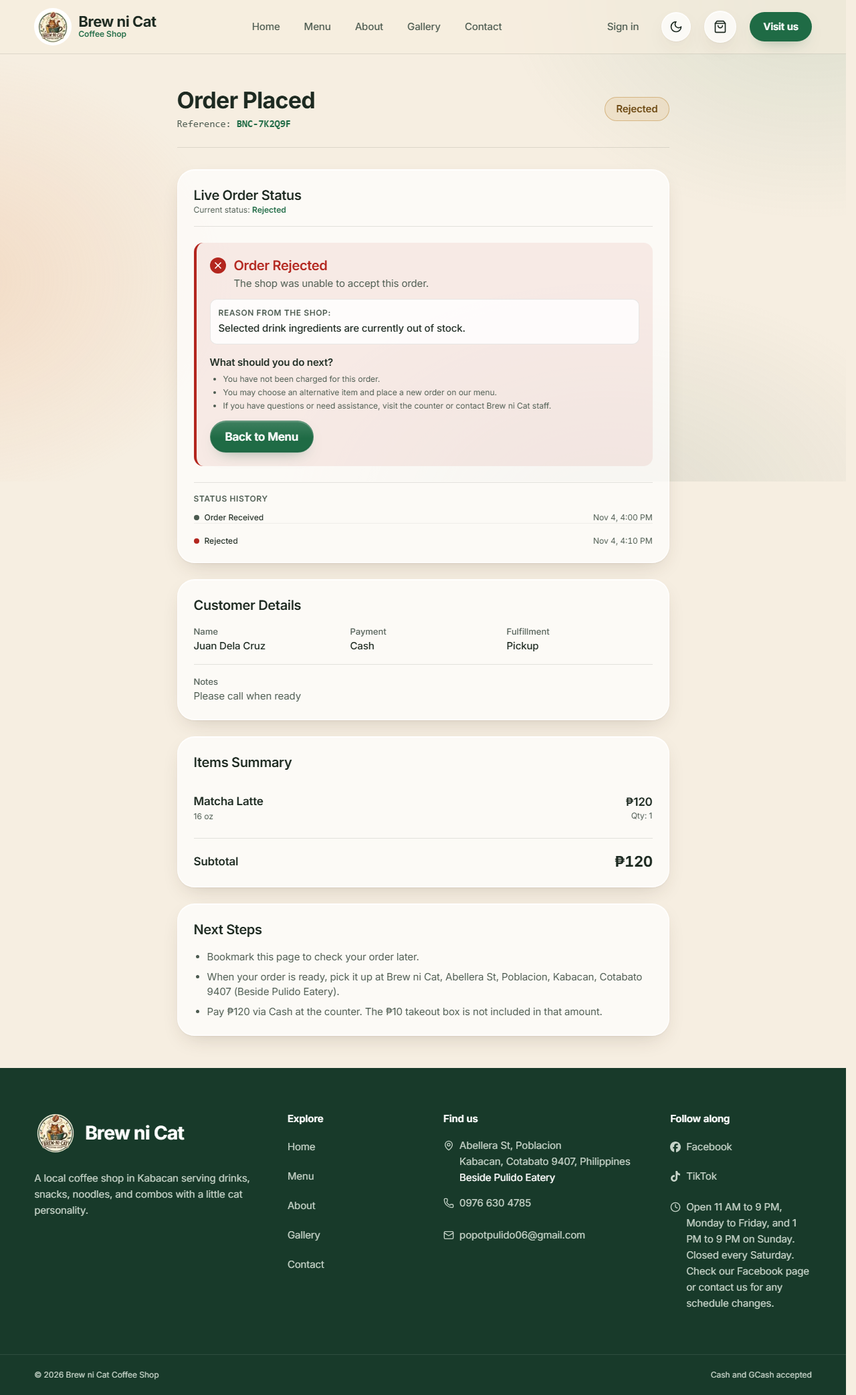
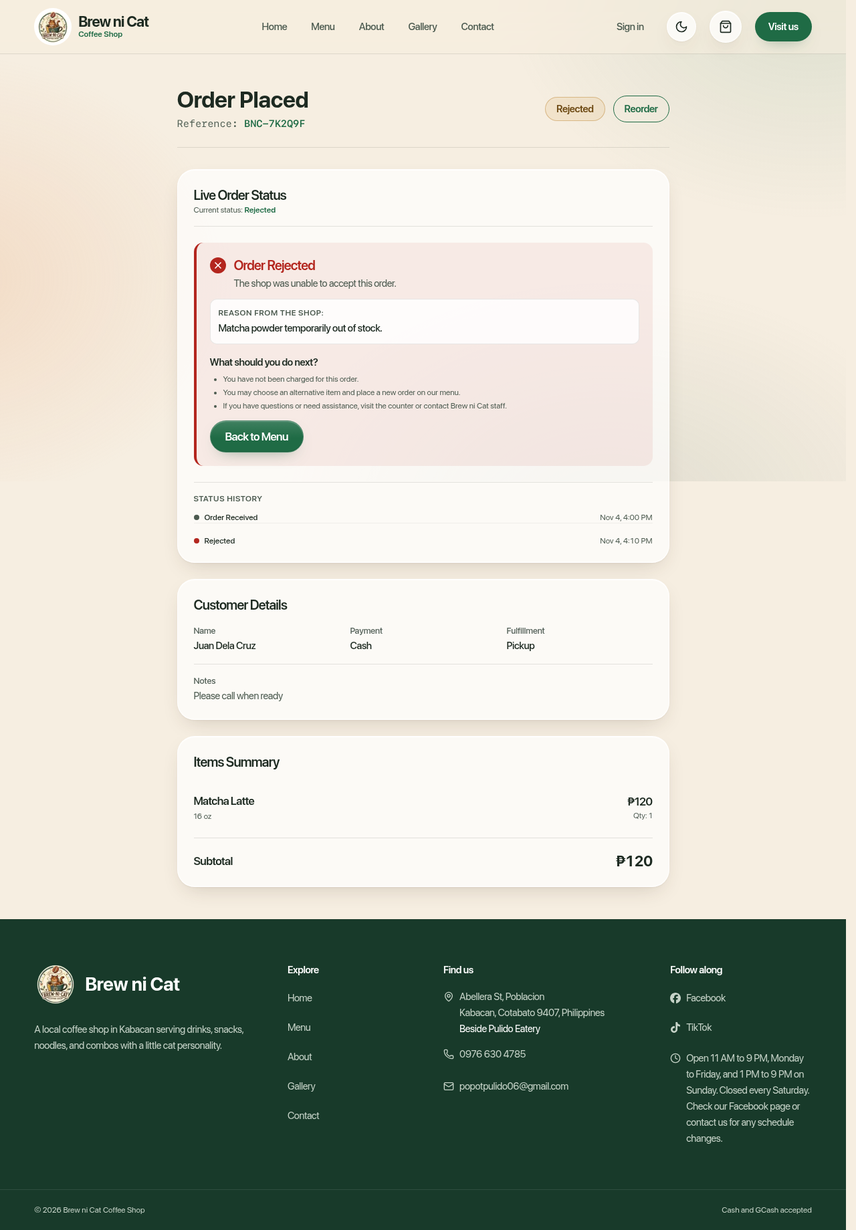
docs: restore tracking diagram, number review cases, retake evidence (FR-044 to FR-049)
- Restore the original section 6 diagram in execution-paths.md and move the detailed diagram under the 2026-11-04 update.
- Keep PR #94's cases as section 31 and make live order tracking section 32.
- Add TC-P5-063 and TC-P5-064, and rename the unit test that was titled TC-P4-263 to TC-P5-064.
- Save the five tracking screenshots with CAPTURE_EVIDENCE=1 and retake them from a fresh build.
- Update the FR status note range and add the 2026-11-06 development log entry.

diff --git a/tests/e2e/order-tracking.spec.ts b/tests/e2e/order-tracking.spec.ts
@@ -1,4 +1,4 @@
-import { expect, test } from "@playwright/test";
+import { expect, test, type Page } from "@playwright/test";
 
 const REFERENCE = "BNC-7K2Q9F";
 const TOKEN = "Zm9yLXRlc3RzLW9ubHktbm90LWEtcmVhbC10b2tlbg8";
@@ -37,6 +37,15 @@ function makeOrder(status: string, rejectionReason: string | null = null) {
   };
 }
 
+// With CAPTURE_EVIDENCE=1, saves the page as review evidence.
+async function captureEvidence(page: Page, state: string) {
+  if (process.env.CAPTURE_EVIDENCE !== "1") return;
+  await page.screenshot({
+    path: `docs/evidence/phase-5/order-tracking/order-tracking-${state}.png`,
+    fullPage: true,
+  });
+}
+
 test.describe("Live Order Tracking E2E", () => {
   test("TC-P5-061 — verifies live order progresses across statuses without full reload (FR-046, FR-047, FR-048)", async ({
     page,
@@ -62,6 +71,7 @@ test.describe("Live Order Tracking E2E", () => {
     // Verify initial "pending" status
     const pendingStage = page.getByTestId("tracker-stage-pending");
     await expect(pendingStage).toHaveAttribute("aria-current", "step");
+    await captureEvidence(page, "pending");
 
     // 2. Progress order to "preparing"
     currentStatus = "preparing";
@@ -82,6 +92,7 @@ test.describe("Live Order Tracking E2E", () => {
     // Stage 1 (pending) should now show completed icon
     const pendingIcon = page.getByTestId("stage-icon-pending");
     await expect(pendingIcon.locator("svg")).toBeVisible();
+    await captureEvidence(page, "preparing");
 
     // 3. Progress order to "ready"
     currentStatus = "ready";
@@ -93,6 +104,7 @@ test.describe("Live Order Tracking E2E", () => {
     await expect(readyStage).toHaveAttribute("aria-current", "step", {
       timeout: 10_000,
     });
+    await captureEvidence(page, "ready");
 
     // 4. Progress order to "completed"
     currentStatus = "completed";
@@ -108,6 +120,7 @@ test.describe("Live Order Tracking E2E", () => {
     // Status history list should contain the completed transition
     const historyList = page.getByTestId("status-history-list");
     await expect(historyList).toContainText("Completed");
+    await captureEvidence(page, "completed");
   });
 
   test("TC-P5-062 — displays customer-safe rejected order banner with reason and next steps (FR-049)", async ({
@@ -141,5 +154,6 @@ test.describe("Live Order Tracking E2E", () => {
     // Back to Menu link should navigate correctly
     const backToMenuLink = page.getByRole("link", { name: "Back to Menu" });
     await expect(backToMenuLink).toBeVisible();
+    await captureEvidence(page, "rejected");
   });
 });

diff --git a/tests/unit/order-confirmation-page.test.tsx b/tests/unit/order-confirmation-page.test.tsx
@@ -141,7 +141,7 @@ describe("Order confirmation page", () => {
     ).toBeInTheDocument();
   });
 
-  it("TC-P4-263 — shows the shop's status change without a reload, then stops listening (FR-046, FR-047)", async () => {
+  it("TC-P5-064 — shows the shop's status change without a reload, then stops listening (FR-046, FR-047)", async () => {
     fetchOrder
       .mockResolvedValueOnce(ORDER)
       .mockResolvedValueOnce({ ...ORDER, status: "ready" })

diff --git a/docs/test-cases.md b/docs/test-cases.md
@@ -718,7 +718,46 @@ These run against the production build with Supabase Auth seeded in localStorage
 | TC-P5-032 | FR-041 | `/account/orders` Reorder | Reorder shows both price updates and unavailable items | Mocked session and menu; order has one changed-price item and one item missing from the menu | Click Reorder | "Reorder notices" region shows "Added 2 items to your cart.", the ₱140 → ₱150 price update, and the unavailable Matcha Latte notice | Matched. | Passed | `tests/e2e/order-history.spec.ts`, `docs/evidence/phase-5/screenshots/order-history-reorder-notices.png` |
 | TC-P5-033 | FR-041 | `/orders/[reference]` | The order's owner sees the Reorder button on the order page | Mocked session; mocked `get_online_order` response | Open `/orders/BNC-7K2Q9F` | "Order Placed" heading, the order reference, and a visible Reorder button | Matched. | Passed | `tests/e2e/order-history.spec.ts`, `docs/evidence/phase-5/screenshots/order-page-reorder-button.png` |
 
-## 31. Live Order Tracking Cases (Phase 5, Week 2 — FR-044 to FR-049)
+## 31. Customer Profiles, Checkout Prefill, Linked Orders, and Account Page Guard Cases (FR-023, FR-033, FR-036, FR-038)
+
+Run on 2026-11-05. `npx vitest run tests/unit/checkout-validation.test.ts tests/unit/account-profile.test.tsx tests/unit/checkout-prefill.test.tsx tests/unit/orders-route.test.ts tests/unit/order-client.test.ts tests/unit/account-guard.test.tsx tests/unit/auth-context.test.tsx` — 40 passed (40). Full unit suite (`npx vitest run tests/unit`): 53 test files, 355 tests, all passed. Full test suite (`npx vitest run`): 64 test files, 508 passed. `npx playwright test tests/e2e/account-guard.spec.ts` — 3 passed (3). Full Playwright chromium suite (`CI=1 npx playwright test --project=chromium`): 29 passed, 3 skipped. `npm run typecheck`, `npm run lint`, `npm run format:check` all passed. `npm run build` succeeded with `/account/profile` and `/api/orders` in the route manifest. Visual evidence captured for profile viewing/editing and checkout prefill.
+
+### 31a. Customer profile validation and service (TC-P4-263 to TC-P4-265)
+
+| ID | Requirement ID(s) | Module | Scenario | Preconditions | Input / action | Expected result | Actual result | Status | Evidence |
+|---|---|---|---|---|---|---|---|---|---|
+| TC-P4-263 | FR-038 | `validateCustomerProfile` | Profile name and phone validation rules | None | Validate empty/whitespace names, names > 100 characters, invalid phones, and valid data | Name is required and rejected when exceeding 100 characters; phone is required and rejected if not valid Philippine format; valid input returns clean profile payload | Matched. | Passed | `tests/unit/account-profile.test.tsx` |
+| TC-P4-264 | FR-038 | `normalizePhoneNumber` / `saveCustomerProfile` | Phone normalization to `+639XXXXXXXXX` format | Valid Philippine mobile input in local `09XXXXXXXXX`, spaced, or dashed formats | Call `normalizePhoneNumber` and `saveCustomerProfile` | Converts local numbers to `+639XXXXXXXXX`, trims punctuation/spaces, and upserts into `public.customer_profiles` table | Matched. | Passed | `tests/unit/checkout-validation.test.ts`, `tests/unit/account-profile.test.tsx` |
+| TC-P4-265 | FR-038 | `ProfileView` | Profile view loading, display, and update saving | Signed-in customer with existing profile | Render `<ProfileView />`, modify name/phone, and submit | Skeleton rendered while loading; email displayed as read-only; form inputs prefill; successful submit invokes `saveCustomerProfile` and displays accessible success alert | Matched. | Passed | `tests/unit/account-profile.test.tsx` |
+
+### 31b. Checkout prefill and order linkage (TC-P4-266 to TC-P4-269)
+
+| ID | Requirement ID(s) | Module | Scenario | Preconditions | Input / action | Expected result | Actual result | Status | Evidence |
+|---|---|---|---|---|---|---|---|---|---|
+| TC-P4-266 | FR-023 | `CheckoutView` | Checkout prefill for signed-in customer with profile | Customer is signed in and has saved profile (`Juan Dela Cruz`, `09171234567`) | Open `/checkout` with active cart | Customer name and phone fields automatically prefill from the profile; session token attached to `placeOrder` call | Matched. | Passed | `tests/unit/checkout-prefill.test.tsx` |
+| TC-P4-267 | FR-023 | `CheckoutView` | Guest checkout isolation without prefill | Visitor is unauthenticated (`user: null`, guest state) | Open `/checkout` with active cart | Customer name and phone fields remain completely blank; Place order executes without authorization header | Matched. | Passed | `tests/unit/checkout-prefill.test.tsx` |
+| TC-P4-268 | FR-023 | `POST /api/orders` | Authenticated order placement links to customer account | Valid session token supplied in `Authorization: Bearer <token>` header | Submit valid checkout payload to `POST /api/orders` | Route verifies token via `supabase.auth.getUser(token)`, invokes `place_online_order` using token-authenticated client, associating order with `auth.uid()` | Matched. | Passed | `tests/unit/orders-route.test.ts` |
+| TC-P4-269 | FR-023 | `POST /api/orders` | Invalid or expired session token rejection | Malformed or expired bearer token passed in `Authorization` header | Submit checkout request to `POST /api/orders` | Route rejects request with HTTP 401 Unauthorized and `session-expired` error code (502 if auth unreachable), aborting order placement | Matched. | Passed | `tests/unit/orders-route.test.ts` |
+
+### 31c. Account page guard and navigation (TC-P4-270 to TC-P4-273)
+
+| ID | Requirement ID(s) | Module | Scenario | Preconditions | Input / action | Expected result | Actual result | Status | Evidence |
+|---|---|---|---|---|---|---|---|---|---|
+| TC-P4-270 | FR-033, FR-036 | `AccountGuard` | Route guarding for `/account/*` pages | Unauthenticated visitor navigating to protected vs public account routes | Mount `AccountGuard` on `/account/profile`, `/account/orders`, vs `/account/sign-in` | Protected pages redirect to `/account/sign-in?returnTo=<path>`; public auth routes allow navigation without redirection | Matched. | Passed | `tests/unit/account-guard.test.tsx` |
+| TC-P4-271 | FR-033, FR-036 | `AccountGuard` E2E | Unauthenticated visit redirects to sign-in and returns after login | Playwright browser with unauthenticated state | Navigate directly to `/account/profile`, complete sign-in | Browser redirects to `/account/sign-in?returnTo=%2Faccount%2Fprofile`; on successful sign-in, user is redirected back to `/account/profile` | Matched. | Passed | `tests/e2e/account-guard.spec.ts` |
+| TC-P4-272 | FR-038 | `/account/profile` | Customer profile screen visual evidence | Authenticated customer session | Capture screenshot of `/account/profile` | Renders iOS 27 styled profile card, read-only email, editable name and phone fields with save button | Matched. | Passed | `docs/evidence/phase-4/screenshots/profile.png` |
+| TC-P4-273 | FR-023 | `/checkout` | Checkout prefill visual evidence | Authenticated customer session with saved profile | Capture screenshot of `/checkout` with active cart | Renders checkout form with prefilled name and phone number | Matched. | Passed | `docs/evidence/phase-4/screenshots/checkout-prefill.png` |
+
+### 31d. Return-to validation, sign-out prefill clearing, and bearer order client (TC-P4-274 to TC-P4-277)
+
+| ID | Requirement ID(s) | Module | Scenario | Preconditions | Input / action | Expected result | Actual result | Status | Evidence |
+|---|---|---|---|---|---|---|---|---|---|
+| TC-P4-274 | FR-036 | `safeReturnTo` | Rejection of protocol-relative, backslash, and tab redirect bypasses | None | Call `safeReturnTo` with `//evil.example`, `/\evil.example`, `/\t/evil.example`, `https://evil.example`, `javascript:alert(1)`, `null`, and `""` | All malicious and invalid inputs are rejected and fall back safely to `"/"` | Matched. | Passed | `tests/unit/account-guard.test.tsx` |
+| TC-P4-275 | FR-036 | `safeReturnTo` | Allowance of safe local relative paths | None | Call `safeReturnTo` with `"/account/profile"` and `"/account/orders?page=2#heading"` | Valid local relative paths and query/hash parameters are preserved and returned unchanged | Matched. | Passed | `tests/unit/account-guard.test.tsx` |
+| TC-P4-276 | FR-033 | `CheckoutView` | Prefill cleanup upon customer sign-out | Customer with saved profile is signed in on `/checkout`, then signs out | Trigger Supabase auth sign-out event while checkout is mounted | Prefilled name and phone inputs are immediately cleared back to empty strings | Matched. | Passed | `tests/unit/checkout-prefill.test.tsx` |
+| TC-P4-277 | FR-023 | `placeOrder` client | Session token bearer header dispatch and session expiration handling | Active or expired customer session token | Invoke `placeOrder` with `{ sessionToken: "expired-jwt" }` against an HTTP 401 response | Attaches `Authorization: Bearer expired-jwt` to request and returns structured `session-expired` failure result | Matched. | Passed | `tests/unit/order-client.test.ts` |
+
+## 32. Live Order Tracking Cases (Phase 5, Week 2 — FR-044 to FR-049)
 
 Run on 2026-11-04 by Renier P. Apal. Covers unit tests for `useOrderStatus` hook (`tests/unit/use-order-status.test.ts`), `OrderStatusTracker` component (`tests/unit/order-status-tracker.test.tsx`), `fetchOrder` (`tests/unit/fetch-order.test.ts`), order confirmation page integration (`tests/unit/order-confirmation-page.test.tsx`), and Playwright E2E (`tests/e2e/order-tracking.spec.ts`).
 
@@ -746,42 +785,7 @@ Run on 2026-11-04 by Renier P. Apal. Covers unit tests for `useOrderStatus` hook
 | TC-P5-059 | FR-044 | Order Page Auth | Cross-account tracking attempt fails server-side | Customer signed in; order belongs to different user | Navigate to `/orders/BNC-7K2Q9F` without token | Server returns null; page shows Order Not Found without leaking order details | Matches expected. | Pass | 2026-11-04 |
 | TC-P5-061 | FR-046, FR-047, FR-048 | Live Order Tracking E2E | Order progresses across statuses without full page reload | Playwright browser against Next.js production build | Intercept RPC; progress order from pending -> preparing -> ready -> completed | Page updates stages seamlessly without full reload; shows completed history | Matches expected (Playwright chromium). | Pass | 2026-11-04 |
 | TC-P5-062 | FR-049 | Live Order Tracking E2E | Rejected order displays rejection reason and next steps | Order status is `rejected` | Navigate to order page | Rejected banner, reason, and Back to Menu link are visible and actionable | Matches expected (Playwright chromium). | Pass | 2026-11-04 |
+| TC-P5-063 | FR-049 | Order Page | Next Steps card is hidden once the order is final | Order page loads a pending order, then a rejected order | Render the order page for each order | Next Steps shows for the pending order and is hidden for the rejected order, so a rejected order no longer asks the customer to pay at the counter | Matches expected. | Pass | 2026-11-06 |
+| TC-P5-064 | FR-046, FR-047 | Order Page Realtime | The shop's status change shows without a reload, then the page stops listening | Guest order page open with a valid token; the order is pending | Fire the order's `status-changed` broadcast twice while the shop moves the order to ready, then completed | The page refetches the order with the token and shows ready, then completed, without a reload; the channel is removed once the order is completed | Matches expected. | Pass | 2026-11-06 |
 
-## 32. Customer Profiles, Checkout Prefill, Linked Orders, and Account Page Guard Cases (FR-023, FR-033, FR-036, FR-038)
-
-Run on 2026-11-05. `npx vitest run tests/unit/checkout-validation.test.ts tests/unit/account-profile.test.tsx tests/unit/checkout-prefill.test.tsx tests/unit/orders-route.test.ts tests/unit/order-client.test.ts tests/unit/account-guard.test.tsx tests/unit/auth-context.test.tsx` — 40 passed (40). Full unit suite (`npx vitest run tests/unit`): 53 test files, 355 tests, all passed. Full test suite (`npx vitest run`): 64 test files, 508 passed. `npx playwright test tests/e2e/account-guard.spec.ts` — 3 passed (3). Full Playwright chromium suite (`CI=1 npx playwright test --project=chromium`): 29 passed, 3 skipped. `npm run typecheck`, `npm run lint`, `npm run format:check` all passed. `npm run build` succeeded with `/account/profile` and `/api/orders` in the route manifest. Visual evidence captured for profile viewing/editing and checkout prefill.
-
-### 32a. Customer profile validation and service (TC-P4-263 to TC-P4-265)
-
-| ID | Requirement ID(s) | Module | Scenario | Preconditions | Input / action | Expected result | Actual result | Status | Evidence |
-|---|---|---|---|---|---|---|---|---|---|
-| TC-P4-263 | FR-038 | `validateCustomerProfile` | Profile name and phone validation rules | None | Validate empty/whitespace names, names > 100 characters, invalid phones, and valid data | Name is required and rejected when exceeding 100 characters; phone is required and rejected if not valid Philippine format; valid input returns clean profile payload | Matched. | Passed | `tests/unit/account-profile.test.tsx` |
-| TC-P4-264 | FR-038 | `normalizePhoneNumber` / `saveCustomerProfile` | Phone normalization to `+639XXXXXXXXX` format | Valid Philippine mobile input in local `09XXXXXXXXX`, spaced, or dashed formats | Call `normalizePhoneNumber` and `saveCustomerProfile` | Converts local numbers to `+639XXXXXXXXX`, trims punctuation/spaces, and upserts into `public.customer_profiles` table | Matched. | Passed | `tests/unit/checkout-validation.test.ts`, `tests/unit/account-profile.test.tsx` |
-| TC-P4-265 | FR-038 | `ProfileView` | Profile view loading, display, and update saving | Signed-in customer with existing profile | Render `<ProfileView />`, modify name/phone, and submit | Skeleton rendered while loading; email displayed as read-only; form inputs prefill; successful submit invokes `saveCustomerProfile` and displays accessible success alert | Matched. | Passed | `tests/unit/account-profile.test.tsx` |
-
-### 32b. Checkout prefill and order linkage (TC-P4-266 to TC-P4-269)
-
-| ID | Requirement ID(s) | Module | Scenario | Preconditions | Input / action | Expected result | Actual result | Status | Evidence |
-|---|---|---|---|---|---|---|---|---|---|
-| TC-P4-266 | FR-023 | `CheckoutView` | Checkout prefill for signed-in customer with profile | Customer is signed in and has saved profile (`Juan Dela Cruz`, `09171234567`) | Open `/checkout` with active cart | Customer name and phone fields automatically prefill from the profile; session token attached to `placeOrder` call | Matched. | Passed | `tests/unit/checkout-prefill.test.tsx` |
-| TC-P4-267 | FR-023 | `CheckoutView` | Guest checkout isolation without prefill | Visitor is unauthenticated (`user: null`, guest state) | Open `/checkout` with active cart | Customer name and phone fields remain completely blank; Place order executes without authorization header | Matched. | Passed | `tests/unit/checkout-prefill.test.tsx` |
-| TC-P4-268 | FR-023 | `POST /api/orders` | Authenticated order placement links to customer account | Valid session token supplied in `Authorization: Bearer <token>` header | Submit valid checkout payload to `POST /api/orders` | Route verifies token via `supabase.auth.getUser(token)`, invokes `place_online_order` using token-authenticated client, associating order with `auth.uid()` | Matched. | Passed | `tests/unit/orders-route.test.ts` |
-| TC-P4-269 | FR-023 | `POST /api/orders` | Invalid or expired session token rejection | Malformed or expired bearer token passed in `Authorization` header | Submit checkout request to `POST /api/orders` | Route rejects request with HTTP 401 Unauthorized and `session-expired` error code (502 if auth unreachable), aborting order placement | Matched. | Passed | `tests/unit/orders-route.test.ts` |
-
-### 32c. Account page guard and navigation (TC-P4-270 to TC-P4-273)
-
-| ID | Requirement ID(s) | Module | Scenario | Preconditions | Input / action | Expected result | Actual result | Status | Evidence |
-|---|---|---|---|---|---|---|---|---|---|
-| TC-P4-270 | FR-033, FR-036 | `AccountGuard` | Route guarding for `/account/*` pages | Unauthenticated visitor navigating to protected vs public account routes | Mount `AccountGuard` on `/account/profile`, `/account/orders`, vs `/account/sign-in` | Protected pages redirect to `/account/sign-in?returnTo=<path>`; public auth routes allow navigation without redirection | Matched. | Passed | `tests/unit/account-guard.test.tsx` |
-| TC-P4-271 | FR-033, FR-036 | `AccountGuard` E2E | Unauthenticated visit redirects to sign-in and returns after login | Playwright browser with unauthenticated state | Navigate directly to `/account/profile`, complete sign-in | Browser redirects to `/account/sign-in?returnTo=%2Faccount%2Fprofile`; on successful sign-in, user is redirected back to `/account/profile` | Matched. | Passed | `tests/e2e/account-guard.spec.ts` |
-| TC-P4-272 | FR-038 | `/account/profile` | Customer profile screen visual evidence | Authenticated customer session | Capture screenshot of `/account/profile` | Renders iOS 27 styled profile card, read-only email, editable name and phone fields with save button | Matched. | Passed | `docs/evidence/phase-4/screenshots/profile.png` |
-| TC-P4-273 | FR-023 | `/checkout` | Checkout prefill visual evidence | Authenticated customer session with saved profile | Capture screenshot of `/checkout` with active cart | Renders checkout form with prefilled name and phone number | Matched. | Passed | `docs/evidence/phase-4/screenshots/checkout-prefill.png` |
-
-### 32d. Return-to validation, sign-out prefill clearing, and bearer order client (TC-P4-274 to TC-P4-277)
-
-| ID | Requirement ID(s) | Module | Scenario | Preconditions | Input / action | Expected result | Actual result | Status | Evidence |
-|---|---|---|---|---|---|---|---|---|---|
-| TC-P4-274 | FR-036 | `safeReturnTo` | Rejection of protocol-relative, backslash, and tab redirect bypasses | None | Call `safeReturnTo` with `//evil.example`, `/\evil.example`, `/\t/evil.example`, `https://evil.example`, `javascript:alert(1)`, `null`, and `""` | All malicious and invalid inputs are rejected and fall back safely to `"/"` | Matched. | Passed | `tests/unit/account-guard.test.tsx` |
-| TC-P4-275 | FR-036 | `safeReturnTo` | Allowance of safe local relative paths | None | Call `safeReturnTo` with `"/account/profile"` and `"/account/orders?page=2#heading"` | Valid local relative paths and query/hash parameters are preserved and returned unchanged | Matched. | Passed | `tests/unit/account-guard.test.tsx` |
-| TC-P4-276 | FR-033 | `CheckoutView` | Prefill cleanup upon customer sign-out | Customer with saved profile is signed in on `/checkout`, then signs out | Trigger Supabase auth sign-out event while checkout is mounted | Prefilled name and phone inputs are immediately cleared back to empty strings | Matched. | Passed | `tests/unit/checkout-prefill.test.tsx` |
-| TC-P4-277 | FR-023 | `placeOrder` client | Session token bearer header dispatch and session expiration handling | Active or expired customer session token | Invoke `placeOrder` with `{ sessionToken: "expired-jwt" }` against an HTTP 401 response | Attaches `Authorization: Bearer expired-jwt` to request and returns structured `session-expired` failure result | Matched. | Passed | `tests/unit/order-client.test.ts` |
+TC-P5-063 and TC-P5-064 were added to this table on 2026-11-06 during review. TC-P5-064 was first titled TC-P4-263, which PR #94 now uses. With `CAPTURE_EVIDENCE=1`, TC-P5-061 and TC-P5-062 also save the five screenshots in `docs/evidence/phase-5/order-tracking/`.

diff --git a/docs/execution-paths.md b/docs/execution-paths.md
@@ -184,6 +184,37 @@ Expired, reused, malformed, or rate-limited requests have no credential effect a
 ```mermaid
 sequenceDiagram
     actor Customer
+    participant Client as Web/Android client
+    participant Backend as Shared backend
+    participant Store as Order data store
+    participant Realtime as Realtime channel
+
+    Customer->>Client: Open authorized order tracking
+    Client->>Backend: Request order by authorized reference
+    Backend->>Store: Read current state under access policy
+    Store-->>Backend: Current state or no authorized match
+    Backend-->>Client: Current state
+    Client->>Realtime: Subscribe to authorized order changes
+    Realtime-->>Client: New state event
+    Client->>Backend: Re-fetch canonical state
+    Backend-->>Client: Latest canonical state
+```
+
+- A realtime message is a refresh signal, not the sole source of truth; the client re-fetches canonical state.
+- If the realtime connection drops, the client indicates that updates may be delayed, reconnects with backoff, and may use bounded polling.
+- If the authenticated customer does not own the order, the backend returns no order data.
+- Events received out of order must not regress the displayed state.
+- Notification channels and timing remain `TODO: Confirm with Brew ni Cat owner.`
+
+### Update (2026-11-04, PR [#93](https://github.com/eendor/Brew-ni-Cat-Connect/pull/93))
+
+The following subsections document the implemented live order-tracking flows.
+
+The sequence below shows the implemented flow in detail.
+
+```mermaid
+sequenceDiagram
+    actor Customer
     participant Client as Web Client (/orders/[reference])
     participant Backend as Supabase RPC (get_online_order)
     participant Store as PostgreSQL (online_orders)
@@ -214,16 +245,6 @@ sequenceDiagram
         Backend-->>Client: Render generic "Order Not Found" state (zero internal error leakage)
     end
 ```
-
-- A realtime message is a refresh signal, not the sole source of truth; the client re-fetches canonical state.
-- If the realtime connection drops, the client indicates that updates may be delayed, reconnects with backoff, and may use bounded polling.
-- If the authenticated customer does not own the order, the backend returns no order data.
-- Events received out of order must not regress the displayed state.
-- Notification channels and timing remain `TODO: Confirm with Brew ni Cat owner.`
-
-### Update (2026-11-04, PR [#93](https://github.com/eendor/Brew-ni-Cat-Connect/pull/93))
-
-The following subsections document the implemented live order-tracking flows.
 
 ### 6.1 Guest tracking flow (FR-045)
 

diff --git a/docs/development-log.md b/docs/development-log.md
@@ -1458,3 +1458,14 @@ This log records completed work and observed evidence. Planned work is explicitl
 - **Branch / PR:** `feat/p4-account-profile`.
 - **Known limitations:** Phone numbers are restricted to Philippine mobile formats (`+639XXXXXXXXX`); international formats are not accepted per database constraint.
 - **Next action:** Peer review by Rodnee; merge PR into `main`.
+
+## 2026-11-06 — Review fixes for live order tracking (FR-044 to FR-049)
+
+- **Phase:** Phase 5 (Live Order Tracking & History, Week 2).
+- **Task:** Finish the review fixes on PR #93 and retake its evidence before merge.
+- **Summary:** In `docs/execution-paths.md` I restored the original section 6 diagram above its five rules and moved the detailed diagram under the 2026-11-04 update, so section 6 matches `main` up to that update. In `docs/test-cases.md` the customer profile cases from PR #94 stay section 31, as on `main`, and live order tracking is now section 32. I added TC-P5-063 (the Next Steps card is hidden once an order is final) and TC-P5-064 (the shop's status change shows without a reload) to the table. TC-P5-064 was first titled TC-P4-263, which PR #94 uses. `tests/e2e/order-tracking.spec.ts` now saves the five screenshots when `CAPTURE_EVIDENCE=1`. I retook them from a fresh build, so the rejected and completed screenshots no longer show the Next Steps card.
+- **Files:** `docs/execution-paths.md`, `docs/test-cases.md`, `docs/functional-requirements.md`, `docs/development-log.md`, `tests/e2e/order-tracking.spec.ts`, `tests/unit/order-confirmation-page.test.tsx`, `docs/evidence/phase-5/order-tracking/` (five PNGs).
+- **Testing:** `python3 scripts/validate_phase0_docs.py`: PHASE0_DOC_VALIDATION=PASS. `NODE_OPTIONS=--no-experimental-webstorage npx vitest run`: Test Files 66 passed (66), Tests 538 passed (538). `npx tsc --noEmit -p .`, `npx eslint . --max-warnings=0` and `npx prettier --check .` pass. `npm run build`, then `CI=1 npx playwright test --project=chromium`: 32 passed, 3 skipped. `CAPTURE_EVIDENCE=1 npx playwright test tests/e2e/order-tracking.spec.ts --project=chromium`: 2 passed.
+- **Branch / PR:** `feat/p5-order-tracking`, PR #93.
+- **Known limitations:** The non-blocking suggestions from my 2026-11-05 review are still open: the unused `useOrderUpdates` adapter, `activeOrder`, a refresh dropped during a poll, stage times after an undo, the badge while connecting, and the fallback rejection reason.
+- **Next action:** Renier handles those suggestions in a follow-up PR.

diff --git a/docs/functional-requirements.md b/docs/functional-requirements.md
@@ -245,7 +245,7 @@ FR-012–FR-014 remain Planned for Phase 3 because browse cards are not a purcha
 
 ## 17. Phase 5 Implementation Status Note (Week 2 — Live Order Tracking)
 
-- **Live order tracking (feat/p5-order-tracking):** FR-044, FR-045, FR-046, FR-047, FR-048, and FR-049 are Implemented and verified with unit, component, and Playwright end-to-end tests (TC-P5-040 through TC-P5-062).
+- **Live order tracking (feat/p5-order-tracking):** FR-044, FR-045, FR-046, FR-047, FR-048, and FR-049 are Implemented and verified with unit, component, and Playwright end-to-end tests (TC-P5-040 through TC-P5-064).
 - **FR-044 (Authenticated tracking):** Authenticated customers can view their own orders via server-side validation in `public.get_online_order(reference, null)` where `customer_id = auth.uid()`. Cross-account tracking attempts fail server-side and render a generic "Order Not Found" state without exposing order details.
 - **FR-045 (Guest tracking credential):** Guests access tracking using a 43-character base64url possession token stored in the URL fragment (`#token=...`). The token is validated against `private.online_order_tokens` via SHA-256 hash. Fragments are never transmitted in HTTP headers or logged by servers.
 - **FR-046 (Current status and timeline):** The order tracking component (`src/components/orders/order-status-tracker.tsx`) presents the five forward pipeline stages (`pending`, `accepted`, `preparing`, `ready`, `completed`), clearly distinguishing completed, active (`aria-current="step"`), and upcoming steps. Formatted timestamps and a chronological status history list present all recorded transitions.
